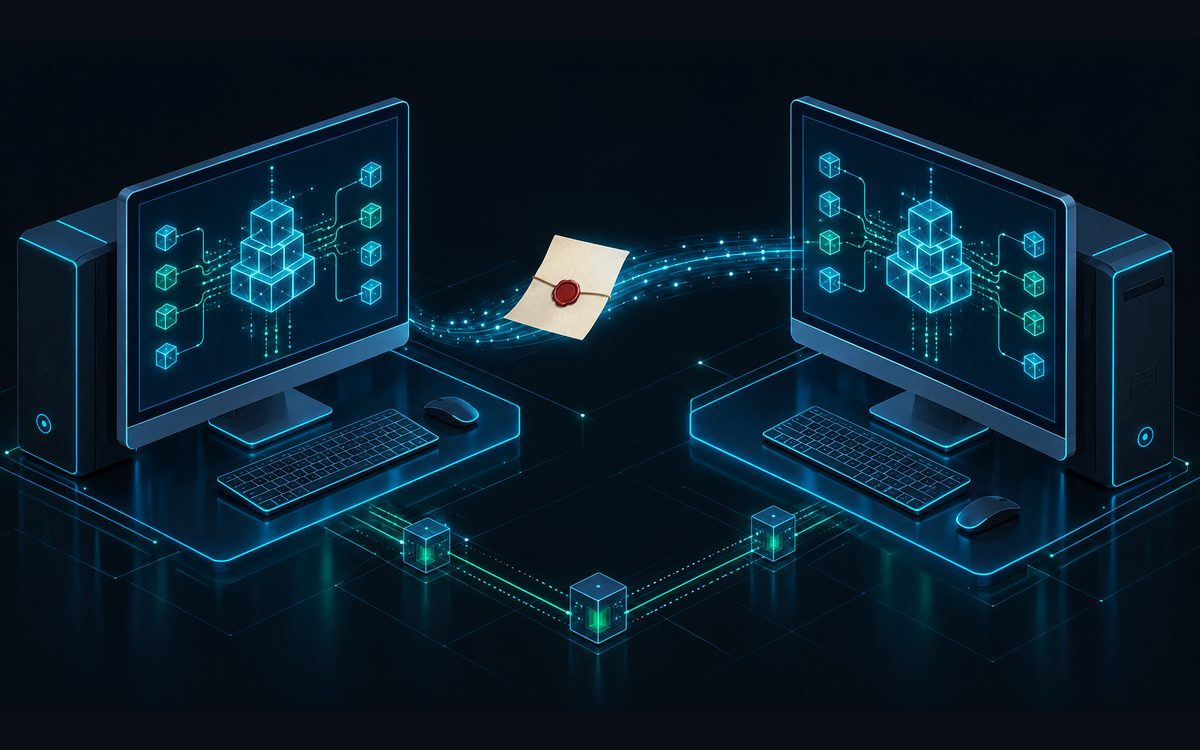
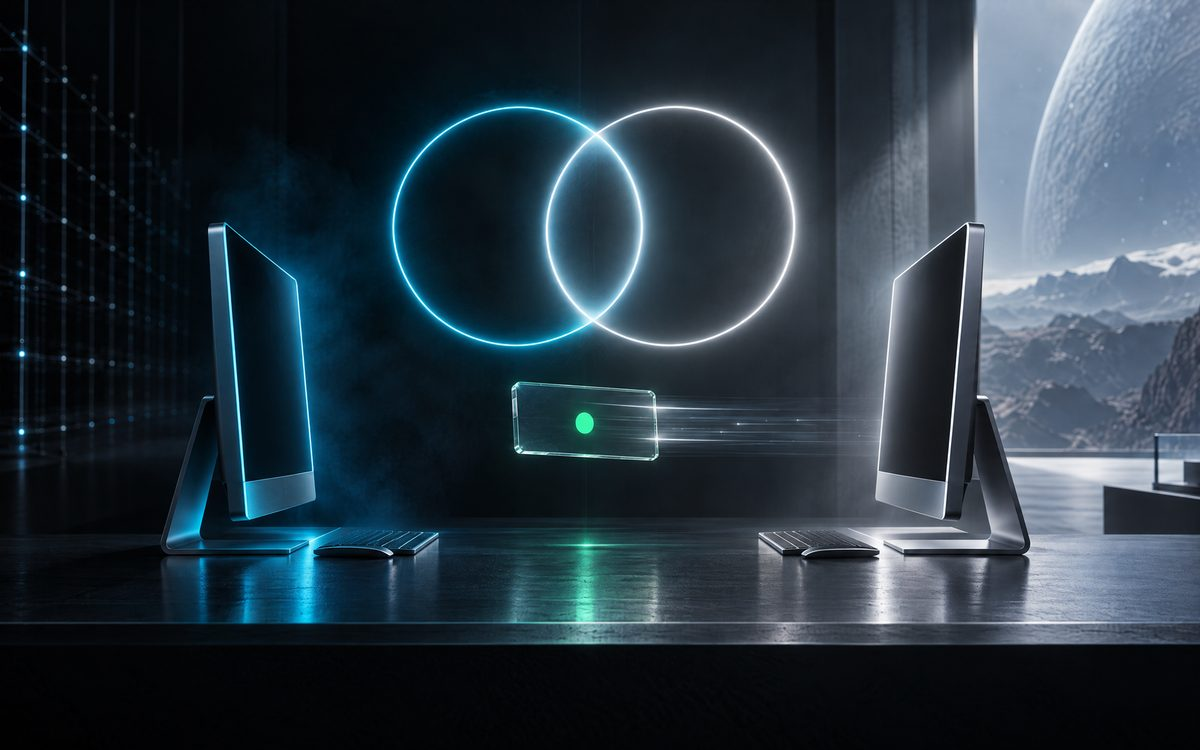
Visuels « Ombre et Lumière » : de l'ombre naît le travail, de la lumière naît la preuve
- Série cohérente de sept illustrations générées par IA (Manus), signalées comme telles : bandeau cinéma sous le héros, cinq étapes, image de partage (og:image 1200 × 630).
- Symbolique : l'ombre qui organise et produit, la lumière blanche qui vérifie ; les deux anneaux qui se croisent sont la preuve. Aucun personnage ni logo.
- La capture réelle de l'explorateur passe à l'étape « Vérifier sans nous croire ».
- Limite ajoutée : un reçu prouve qui déclare, pas que le calcul a eu lieu ; rejeu complet seulement pour les étapes déterministes.

Claude-Session: https://claude.ai/code/session_01TkRA19H694XFd3AqzhFMNA

diff --git a/docs/index.html b/docs/index.html
@@ -6,6 +6,12 @@
 <title>VISION · le travail d'une machine, vérifié par une autre</title>
 <meta name="description" content="VISION, réseau d'essai : un nœud qui s'installe en un fichier, un portefeuille de bureau, la puissance de plusieurs machines mise en commun et des points de travail calculés sur preuve, en simulation. Unités d'essai sans valeur, rien en vente.">
 <link rel="icon" href="icone.svg">
+<meta property="og:title" content="VISION · le travail d'une machine, vérifié par une autre">
+<meta property="og:description" content="Réseau d'essai open source : de l'ombre naît le travail, de la lumière naît la preuve. Unités sans valeur, rien en vente.">
+<meta property="og:image" content="https://turbo31150.github.io/vision/images/partage.jpg">
+<meta property="og:image:width" content="1200">
+<meta property="og:image:height" content="630">
+<meta name="twitter:card" content="summary_large_image">
 <link rel="preload" href="polices/UbuntuSans-variable.ttf" as="font" type="font/ttf" crossorigin>
 <link rel="stylesheet" href="style.css">
 <script defer src="ruban.js"></script>
@@ -57,6 +63,11 @@
       </figure>
     </div>
   </section>
+
+  <figure class="cinema">
+    <img src="images/heros.jpg" alt="Dans l'ombre, un treillis discret organise ; dans la lumière, deux anneaux, cyan et blanc, se croisent au-dessus d'une rangée de blocs de verre dont l'un s'allume." width="1920" height="960" fetchpriority="high">
+    <figcaption><span class="devise">De l'ombre naît le travail. De la lumière naît la preuve.</span><span class="credit">Illustration générée par IA (Manus).</span></figcaption>
+  </figure>
 
   <section class="ruban-zone" aria-labelledby="titre-ruban">
     <div class="cadre">
@@ -112,7 +123,7 @@
       <p class="chapeau">De l'installation au calcul des points : ce que fait chaque machine, et ce que vous pouvez vérifier vous-même.</p>
       <ol class="pas">
         <li>
-          <figure class="capture"><img src="images/reseau.jpg" alt="Plusieurs ordinateurs reliés par des lignes lumineuses autour d'une pile de blocs translucides." width="1024" height="768" loading="lazy"><figcaption>Illustration générée par IA (Mistral).</figcaption></figure>
+          <figure class="capture"><img src="images/reseau.jpg" alt="Une tour, un portable et un petit boîtier, reliés par de fins fils de lumière cyan à une pile de blocs de verre éclairée d'en haut." width="1200" height="750" loading="lazy"><figcaption>Illustration générée par IA (Manus).</figcaption></figure>
           <div class="pas-texte">
             <h3>Des machines ordinaires, reliées</h3>
             <p>Un PC de bureau ou un portable sous Linux, avec ou sans carte graphique, suffit. Chaque machine installe un nœud : c'est lui qui garde une copie de la chaîne, parle aux autres nœuds et sert le portefeuille.</p>
@@ -120,7 +131,7 @@
           </div>
         </li>
         <li>
-          <figure class="capture" id="fig-cles"><img src="images/noeud-cles.jpg" alt="Un ordinateur de bureau qui garde deux petites clés lumineuses à l'intérieur, entouré de blocs translucides." width="1200" height="750" loading="lazy"><figcaption>Illustration générée par IA (Manus).</figcaption></figure>
+          <figure class="capture" id="fig-cles"><img src="images/noeud-cles.jpg" alt="Une tour de PC à paroi de verre ; à l'intérieur, près de la carte graphique, deux petites clés de lumière, une cyan et une blanche." width="1200" height="750" loading="lazy"><figcaption>Illustration générée par IA (Manus).</figcaption></figure>
           <div class="pas-texte">
             <h3>Installer : un fichier, deux clés gardées sur la machine</h3>
             <p>L'installateur est un script shell suivi d'une archive du code de ce dépôt. Il s'installe dans votre dossier personnel, sans droits d'administrateur, et crée deux clés ed25519 : une pour le nœud, une pour le portefeuille. Elles restent dans <code>~/.local/share/vision-noeud</code>.</p>
@@ -128,7 +139,7 @@
           </div>
         </li>
         <li>
-          <figure class="capture"><img src="images/explorateur.jpg" alt="Capture de l'explorateur VISION : deux blocs, la légende des types de transaction et les chiffres du réseau." width="1200" height="725" loading="lazy"><figcaption>Capture réelle de l'explorateur, chaîne publique vision-essai.</figcaption></figure>
+          <figure class="capture"><img src="images/rejouer.jpg" alt="Une longue file de blocs de verre ; un fin faisceau blanc les relit un à un, les premiers portent un liseré vert." width="1200" height="750" loading="lazy"><figcaption>Illustration générée par IA (Manus).</figcaption></figure>
           <div class="pas-texte">
             <h3>Rejouer toute la chaîne avant d'y croire</h3>
             <p>Le nœud récupère la chaîne chez ses pairs du réseau local, ou sur la copie publique de ce site. Il la rejoue depuis le bloc 0. Pour chaque bloc, il vérifie :</p>
@@ -142,7 +153,7 @@
           </div>
         </li>
         <li>
-          <figure class="capture" id="fig-puissance"><img src="images/puissance.jpg" alt="Les cartes graphiques de trois ordinateurs réunissent leur puissance en un seul flux lumineux vers un cœur d'IA locale." width="1024" height="768" loading="lazy"><figcaption>Illustration générée par IA (Mistral).</figcaption></figure>
+          <figure class="capture" id="fig-puissance"><img src="images/puissance.jpg" alt="Trois cartes graphiques côte à côte ; de chacune monte un filet de lumière cyan, et les trois se rejoignent en un seul halo." width="1200" height="750" loading="lazy"><figcaption>Illustration générée par IA (Manus).</figcaption></figure>
           <div class="pas-texte">
             <h3>Mettre la puissance en commun</h3>
             <p>Chaque nœud annonce sa machine : cartes graphiques, mémoire, cœurs, charge. L'annonce est signée par la clé du nœud, puis additionnée aux autres. La signature prouve quel nœud l'a faite, pas que le matériel déclaré existe : aucune attestation matérielle n'est encore en place. L'explorateur ne compte une machine en ligne que si elle a répondu dans les deux dernières minutes.</p>
@@ -150,7 +161,7 @@
           </div>
         </li>
         <li>
-          <figure class="capture" id="fig-verification"><img src="images/verification.jpg" alt="Deux ordinateurs face à face ; un reçu scellé passe de l'un à l'autre." width="1200" height="750" loading="lazy"><figcaption>Illustration générée par IA (Manus).</figcaption></figure>
+          <figure class="capture" id="fig-verification"><img src="images/verification.jpg" alt="Deux postes face à face, l'un dans l'ombre cyan, l'autre dans la lumière blanche ; entre eux, une carte de verre scellée de vert, sous deux anneaux qui se croisent." width="1200" height="750" loading="lazy"><figcaption>Illustration générée par IA (Manus).</figcaption></figure>
           <div class="pas-texte">
             <h3>Le travail d'une machine, vérifié par une autre</h3>
             <p>Quand une machine termine une étape de travail, une autre machine la rejoue et signe un reçu : réussi, échoué ou indéterminé. Sans reçu, pas de point.</p>
@@ -163,7 +174,8 @@
           </div>
         </li>
         <li>
-          <div class="pas-texte pas-large">
+          <figure class="capture"><img src="images/explorateur.jpg" alt="Capture de l'explorateur VISION : deux blocs, la légende des types de transaction et les chiffres du réseau." width="1200" height="725" loading="lazy"><figcaption>Capture réelle de l'explorateur, chaîne publique vision-essai.</figcaption></figure>
+          <div class="pas-texte">
             <h3>Vérifier sans nous croire</h3>
             <p>L'explorateur montre les blocs, les transactions, les nœuds et les comptes, signatures comprises. Pour aller plus loin, le dépôt fournit un vérificateur indépendant qui rejoue toute la chaîne sans utiliser le code du nœud. Il ne demande que Python 3.10 et <code>ssh-keygen</code> :</p>
 <pre>git clone https://github.com/Turbo31150/vision && cd vision
@@ -306,6 +318,7 @@ sha256sum -c installer-noeud-vision.sh.sha256</pre></li>
         <h2>Limites connues</h2>
         <ul class="sobre">
           <li><b>Un seul producteur.</b> La machine principale signe tous les blocs et importe les demandes d'inscription des nœuds ; il n'y a pas encore de consensus distribué. Les trois témoins du grand livre copient et contrôlent : ils ne produisent pas de blocs.</li>
+          <li><b>Une preuve partielle.</b> Un reçu signé prouve quelle machine déclare avoir rejoué une étape, pas que le calcul a eu lieu. Le rejeu par une autre machine n'est complet que pour les étapes déterministes.</li>
           <li><b>Du matériel déclaré.</b> Chaque nœud annonce lui-même ses cartes et sa charge ; rien ne l'atteste matériellement. Le temps de calcul déclaré peut être faussé.</li>
           <li><b>Un transport en clair.</b> Les blocs et les transactions sont signés, mais les échanges entre nœuds ne sont pas chiffrés.</li>
           <li><b>Pas d'audit indépendant.</b> Une relecture contradictoire a relevé des faiblesses : le rejeu possible d'une dépense déjà scellée et l'absence de limite sur la taille des requêtes entre nœuds. Ces deux points sont corrigés dans ce dépôt, sans audit extérieur à ce jour. La chaîne publique ne contient à ce jour aucune dépense.</li>

diff --git a/docs/style.css b/docs/style.css
@@ -323,3 +323,11 @@ ul.galerie li { margin: 0; }
 ul.galerie a { display: block; border: 1px solid var(--t-bord); border-radius: var(--t-rayon-lg); overflow: hidden; box-shadow: var(--t-ombre-2); transition: transform var(--t-duree-2) var(--t-courbe), border-color var(--t-duree-1); }
 ul.galerie a:hover { transform: translateY(-3px); border-color: var(--t-accent); }
 ul.galerie img { display: block; width: 100%; height: auto; }
+
+/* ── Bandeau cinéma : l'ombre et la lumière ── */
+figure.cinema { margin: 0; position: relative; background: #000; border-block: 1px solid var(--t-bord); }
+figure.cinema img { display: block; width: 100%; height: auto; max-height: 78vh; object-fit: cover; }
+figure.cinema figcaption { position: absolute; left: 0; right: 0; bottom: 0; display: flex; justify-content: space-between; align-items: flex-end; gap: 16px; flex-wrap: wrap; padding: 48px max(24px, calc((100% - var(--large)) / 2 + 24px)) 18px; background: linear-gradient(transparent, rgba(4, 6, 10, .82)); }
+figure.cinema .devise { font: 700 clamp(20px, 2.4vw, 32px)/1.2 var(--sans); font-stretch: 75%; color: #e4e8ef; max-width: 32ch; }
+figure.cinema .credit { font-size: 13px; color: #abb4c4; }
+@media (max-width: 640px) { figure.cinema figcaption { position: static; background: var(--t-ruban-fond); padding: 14px 24px; } figure.cinema .devise { color: var(--t-texte); } figure.cinema .credit { color: var(--t-texte-2); } }

diff --git a/README.md b/README.md
@@ -1,5 +1,7 @@
 ![VISION : le travail d'une machine, vérifié par une autre. Réseau d'essai, unités sans valeur, rien en vente.](docs/images/banniere.png)
 
+> *De l'ombre naît le travail. De la lumière naît la preuve.*
+
 # VISION · nœud, portefeuille et partage de puissance (réseau d'essai)
 
 > **Chaîne d'ESSAI.** Les unités n'ont aucune valeur, ne se transfèrent pas d'un compte à l'autre et ne sont ni vendues ni offertes au public.
@@ -76,8 +78,8 @@ cat docs/installer-noeud-vision.sh.sha256
 
 ## Comment ça marche, pas à pas
 
-![Plusieurs ordinateurs reliés autour d'une pile de blocs translucides](docs/images/reseau.jpg)
-*Illustration générée par IA (Mistral).*
+![Une tour, un portable et un petit boîtier reliés par des fils de lumière à une pile de blocs de verre](docs/images/reseau.jpg)
+*Illustration générée par IA (Manus).*
 
 **1. Des machines ordinaires, reliées.** Un PC de bureau ou un portable sous Linux, avec ou sans carte graphique, suffit. Chaque machine installe un nœud : il garde une copie de la chaîne, parle aux autres nœuds et sert le portefeuille. Une seule machine, le producteur, signe aujourd'hui les blocs ; les autres rejouent tout ce qu'il publie au lieu de le croire.
 
@@ -91,8 +93,8 @@ cat docs/installer-noeud-vision.sh.sha256
 
 **3. Rejouer toute la chaîne avant d'y croire.** Le nœud récupère la chaîne chez ses pairs du réseau local ou sur le miroir public, puis la rejoue depuis le bloc 0. Pour chaque bloc, il vérifie la hauteur, l'empreinte du bloc précédent, la racine de Merkle des transactions, l'empreinte des soldes et la signature du producteur (`ssh-keygen -Y`, espace dédié), avec la clé épinglée dans l'installateur. Au premier écart, la copie est refusée.
 
-![Les cartes graphiques de plusieurs machines réunissent leur puissance](docs/images/puissance.jpg)
-*Illustration générée par IA (Mistral).*
+![Trois cartes graphiques dont les filets de lumière se rejoignent en un halo](docs/images/puissance.jpg)
+*Illustration générée par IA (Manus).*
 
 **4. Mettre la puissance en commun.** Chaque nœud annonce sa machine (cartes, mémoire, cœurs, charge), signée par sa clé. Les annonces sont vérifiées puis additionnées ; une machine n'est comptée en ligne que si elle a répondu dans les deux dernières minutes. VISION n'exécute rien lui-même : les modèles d'IA tournent sur les machines, VISION recense la puissance et inscrit les preuves du travail fait.
 
@@ -114,6 +116,7 @@ La vérification des reçus de travail s'appuie sur un module privé du producte
 - Un seul producteur de blocs (preuve d'autorité). Trois témoins répliquent le grand livre, mais ils tournent pour l'instant sur des machines du même propriétaire.
 - Transport entre nœuds en HTTP simple : les blocs et les transactions sont signés, le transport n'est pas chiffré. Pas de traversée de box (NAT) : hors du réseau local, un nœud lit le miroir public.
 - Pas d'audit indépendant. Une relecture contradictoire a relevé des faiblesses, dont le rejeu possible d'une dépense déjà scellée et l'absence de limite sur la taille des requêtes entre nœuds. Ces deux points sont corrigés dans ce dépôt, sans audit extérieur à ce jour. La chaîne publique ne contient à ce jour aucune dépense.
+- Un reçu signé prouve quelle machine déclare avoir rejoué une étape, pas que le calcul a eu lieu ; le rejeu par une autre machine n'est complet que pour les étapes déterministes.
 - Compter des secondes de calcul reste une mesure approchée du travail.
 
 ## Feuille de route
